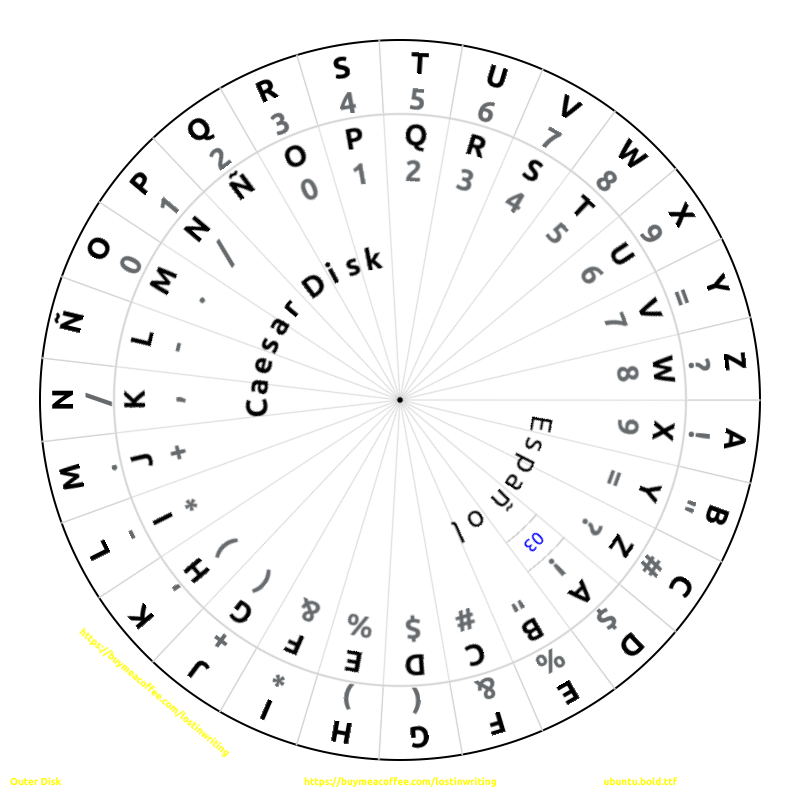
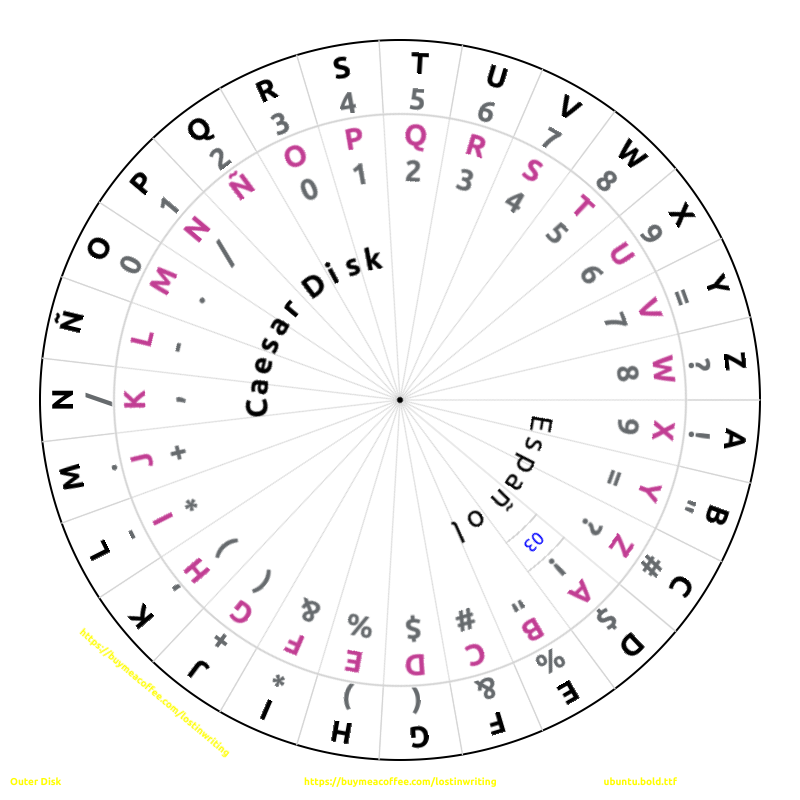
Close #4 Dual disk in single image composite

diff --git a/generator.go b/generator.go
@@ -13,8 +13,10 @@ import (
 	"fmt"
 	"image"
 	"image/color"
+	"image/png"
 	"log"
 	"math"
+	"os"
 	"path/filepath"
 	"strings"
 	"unicode/utf8"
@@ -53,6 +55,11 @@ const (
 	SubTitle string = "C a e s a r  D i s k"
 )
 
+const (
+	percentSingleDiskIndex float64 = 0.70 // % of radius at which we draw Shift value
+	percentDualDiskIndex   float64 = 0.55 // % of radius at which we draw Shift value
+)
+
 // Default Free embedded font(s)
 //
 //go:embed ubuntu.regular.ttf
@@ -73,6 +80,7 @@ var DefaultCaesarWheelOptions = CaesarWheelOptions{
 	LettersFontPath: "ubuntu.bold.ttf",
 	LettersSize:     30.0,
 	LetterColor:     NewRGB[uint8](0, 0, 0),
+	LetterColorAlt:  NewRGB[uint8](0, 0, 0),
 	DigitsFontPath:  "ubuntu.regular.ttf",
 	DigitsSize:      18.0,
 	DigitsColor:     NewRGB[uint8](0x00, 0x00, 0xff), //NewRGB[uint8](0xff, 0xa5, 0x00),
@@ -96,6 +104,7 @@ type CaesarWheelOptions struct {
 	LettersFontPath string
 	LettersSize     float64
 	LetterColor     RGB[uint8]
+	LetterColorAlt  RGB[uint8]
 	DigitsFontPath  string
 	DigitsSize      float64
 	DigitsColor     RGB[uint8]
@@ -152,6 +161,71 @@ func loadFont(fontPath string, size float64) font.Face {
 
 }
 
+// loads a (base) image
+func loadImage(path string) (image.Image, error) {
+	file, err := os.Open(path)
+	if err != nil {
+		return nil, err
+	}
+	defer file.Close()
+	img, err := png.Decode(file)
+
+	return img, err
+}
+
+// Superimpose the two disks and rotate the inner disk image by the Caesar
+// shift value (0..N-1) where N is the length of the chosen alphabet,
+// i.e. the number of segments in the Caesar wheel.
+func SuperimposeDisksByShift(shift, n int, outerFilename, innerFilename, outputFilename string, opts CaesarWheelOptions) error {
+	width := opts.Size.Dx()
+	height := opts.Size.Dy()
+	angle := (float64(shift) / float64(n)) * 2 * math.Pi
+
+	dc := gg.NewContext(width, height)
+	// the bigger (outer) disk is the background
+	baseImg, err := loadImage(outerFilename)
+	if err != nil {
+		return err
+	}
+	dc.DrawImage(baseImg, 0, 0)
+
+	// the inner (smaller) disk is then superimposed
+	overlayImg, err := loadImage(innerFilename)
+	if err != nil {
+		return err
+	}
+
+	if angle == 0 {
+		dc.DrawImage(overlayImg, 0, 0) // overlay has the same size
+	} else {
+		dc.Push() // save the current state of our image context
+		// set the center of the overlay
+		var overlayX, overlayY float64
+		overlayX, overlayY = float64(width/2.0), float64(height/2.0)
+
+		// move the context to the rotation point
+		dc.Translate(overlayX, overlayY)
+		// rotate it the specified amount of radians
+		//angle := gg.Radians(degreeRotation)
+		dc.Rotate(angle)
+		// draw the rotated overlay image centered at 0,0
+		dc.DrawImage(overlayImg, -overlayImg.Bounds().Dx()/2, -overlayImg.Bounds().Dy()/2)
+		// restore the context
+		dc.Pop()
+	}
+
+	// -- Draw Shift Value on the superimposed disk
+	font := loadFont(opts.DigitsFontPath, opts.DigitsSize)
+	// Calculate the middle angle for text  placement
+	startAngle := (float64(shift) / float64(n)) * 2 * math.Pi
+	midAngle := startAngle + (math.Pi / float64(n))
+
+	drawShiftValue(shift, n, opts.Radius*percentDualDiskIndex, midAngle, font, opts, dc)
+
+	err = dc.SavePNG(outputFilename)
+	return err
+}
+
 // Draw a text in a semicircle (arc)
 func drawArcText(arcText string, fgColor color.Color, fontSize, width, height, radius float64, onLeft bool, fontPath string, dc *gg.Context) {
 	// Calculate the arc text position
@@ -182,12 +256,36 @@ func drawArcText(arcText string, fgColor color.Color, fontSize, width, height, r
 	}
 }
 
+func drawShiftValue(shift, N int, radius, midAngle float64, font font.Face, opts CaesarWheelOptions, dc *gg.Context) {
+	x := float64(opts.Size.Dx() / 2)
+	y := float64(opts.Size.Dy() / 2)
+
+	angle := math.Pi*2*float64(shift)/float64(N) + math.Pi/float64(N)
+	if opts.Orthogonal {
+		angle = angle + math.Pi/2 // read at XII
+	}
+
+	// Calculate index position (mid-radius, mid-angle)
+	digitsX := x + radius*math.Cos(midAngle)
+	digitsY := y + radius*math.Sin(midAngle)
+
+	labelShiftValue := fmt.Sprintf("%02d", shift)
+	dc.SetFontFace(font)
+	dc.SetRGB255(int(opts.DigitsColor.Red), int(opts.DigitsColor.Green), int(opts.DigitsColor.Blue))
+
+	dc.Push()
+	dc.Translate(digitsX, digitsY)
+	dc.Rotate(angle)
+	dc.DrawStringAnchored(labelShiftValue, 0, 0, 0.5, 0.5)
+	dc.Pop()
+}
+
 func GenerateDualCaesarWheel(letters, symbols string, filename string, inner bool, opts CaesarWheelOptions) error {
-	sizeLet := utf8.RuneCountInString(letters)
-	sizeSym := utf8.RuneCountInString(symbols)
-	if sizeLet != sizeSym {
-		println("LET", sizeLet, letters)
-		println("SYM", sizeSym, symbols)
+	countLet := utf8.RuneCountInString(letters)
+	countSym := utf8.RuneCountInString(symbols)
+	if countLet != countSym {
+		println("LET", countLet, letters)
+		println("SYM", countSym, symbols)
 		return ErrUnmatchedDual
 	}
 
@@ -197,7 +295,7 @@ func GenerateDualCaesarWheel(letters, symbols string, filename string, inner boo
 		Edge:        opts.Radius,
 		First:       opts.Radius * 0.95, // at 90% (0.90) place the character
 		Second:      opts.Radius * 0.85,
-		Shift:       opts.Radius * 0.55, // place digits 70% of the way to the edge
+		Shift:       opts.Radius * percentDualDiskIndex, // place digits 70% of the way to the edge
 		ArcLabelPos: opts.Radius * 0.55,
 	}
 	// for inner disk, contains 2 cipher alphabets but only cut-out for digits
@@ -242,12 +340,12 @@ func GenerateDualCaesarWheel(letters, symbols string, filename string, inner boo
 	// III. Draw the N dividing lines and characters
 	letterLabel := []rune(letters) // each letter MAY be a multi-byte rune
 	symbolLabel := []rune(symbols)
-	for i := range sizeLet { // the length in Unicode chars rather than bytes
+	for i := range countLet { // the length in Unicode chars rather than bytes
 		// Calculate the start and end angles for the segment
-		startAngle := (float64(i) / float64(sizeLet)) * 2 * math.Pi
+		startAngle := (float64(i) / float64(countLet)) * 2 * math.Pi
 		//endAngle := (float64(i+1) / float64(sizeLet)) * 2 * math.Pi
 		// Calculate the middle angle for text  placement
-		midAngle := startAngle + (math.Pi / float64(sizeLet)) // use pi/N for half a segment angle
+		midAngle := startAngle + (math.Pi / float64(countLet)) // use pi/N for half a segment angle
 		// Calculate the end point of the line on the circle's edge
 		endX := x + ringDualOut.Edge*math.Cos(startAngle)
 		endY := y + ringDualOut.Edge*math.Sin(startAngle)
@@ -261,7 +359,7 @@ func GenerateDualCaesarWheel(letters, symbols string, filename string, inner boo
 
 		// -- Calculate the letter's baseline angle so that it is perpendicular to
 		// the radius. First calculation is letter's side edge parallel to the circle's tangent
-		angle := math.Pi*2*float64(i)/float64(sizeLet) + math.Pi/float64(sizeLet)
+		angle := math.Pi*2*float64(i)/float64(countLet) + math.Pi/float64(countLet)
 		if opts.Orthogonal {
 			angle = angle + math.Pi/2 // read at XII
 		} // else read at III
@@ -285,12 +383,12 @@ func GenerateDualCaesarWheel(letters, symbols string, filename string, inner boo
 			}
 
 			// The Inner disk contains the CIPHERed character(s)
-			drawInnerChar(ringDualIn.First, labelLetter, opts.LetterColor.ToHexColor())
+			drawInnerChar(ringDualIn.First, labelLetter, opts.LetterColorAlt.ToHexColor())
 			drawInnerChar(ringDualIn.Second, labelSymbol, MidGray.ToHexColor())
 
 			// Draw the cut-out that would allow to see-through to
 			// the key/index printed in the disc underneath (outer)
-			endAngle := (float64(1) / float64(sizeLet)) * 2 * math.Pi
+			endAngle := (float64(1) / float64(countLet)) * 2 * math.Pi
 			dc.SetLineWidth(0.75)
 			dc.SetRGB(0.827, 0.827, 0.827)
 			dc.DrawArc(x, y, ringDualOut.Shift+opts.DigitsSize-2, 0, endAngle)
@@ -377,14 +475,14 @@ func GenerateDualCaesarWheel(letters, symbols string, filename string, inner boo
 		return fmt.Errorf("failed to save image: %w", err)
 	}
 
-	fmt.Printf("successfully generated '%s' with %d segments\n", filename, sizeLet)
+	fmt.Printf("successfully generated '%s' with %d segments\n", filename, countLet)
 	return nil
 }
 
 // generate an image with a Caesar encoder wheel that could be printed
 func GenerateCaesarWheel(letters string, filename string, inner bool, opts CaesarWheelOptions) error {
 	// at 75% (0.75) place the 2-digit offset
-	var indexRadius = opts.Radius * 0.70 // place digits 70% of the way to the edge
+	var indexRadius = opts.Radius * percentSingleDiskIndex // place digits 70% of the way to the edge
 	// at 90% (0.90) place the character, thus nearest the edge of the circle
 	var textRadius = opts.Radius * 0.95
 
@@ -486,7 +584,7 @@ func GenerateCaesarWheel(letters string, filename string, inner bool, opts Caesa
 
 			textAltX := x + textAltRadius*math.Cos(midAngle)
 			textAltY := y + textAltRadius*math.Sin(midAngle)
-			dc.SetColor(opts.LetterColor.ToColor())
+			dc.SetColor(opts.LetterColorAlt.ToColor())
 			dc.Push()
 			dc.Translate(textAltX, textAltY)
 			dc.Rotate(angle)

diff --git a/cmd/disk/main.go b/cmd/disk/main.go
@@ -13,6 +13,7 @@ import (
 	"fmt"
 	"os"
 	"strings"
+	"unicode/utf8"
 
 	"github.com/lordofscripts/caesardisk"
 )
@@ -79,6 +80,7 @@ func main() {
 	// I. Command-line flag definition and parsing
 	var flgHelp, flgES, flgRU, flgPT, flgDE, flgGR, flgIT, flgCZ, flgPunct, flgDual bool
 	var flgTextFontPath, flgDigitFontPath, flgAlphabet, flgTitle string
+	var flgAssemble int
 	flag.Usage = Usage
 	flag.BoolVar(&flgHelp, "help", false, "This help")
 	// 1.1 flags for supported preset languages
@@ -98,6 +100,7 @@ func main() {
 	flag.StringVar(&flgTitle, "title", "", "Title (usually disk language or ID)")
 	flag.StringVar(&flgTextFontPath, "text-font", "", "Text font path")
 	flag.StringVar(&flgDigitFontPath, "digit-font", "", "Digit font path (else use same text font)")
+	flag.IntVar(&flgAssemble, "assemble", -1, "when set also output a final disk with key N")
 	flag.Parse()
 
 	// II. Command-line flag validation and processing
@@ -107,6 +110,8 @@ func main() {
 		flag.Usage()
 	} else {
 		var Options caesardisk.CaesarWheelOptions = caesardisk.DefaultCaesarWheelOptions
+		Options.LetterColorAlt = caesardisk.NewRGBFromString("#c13e93") // for inner
+
 		if len(flgDigitFontPath) != 0 {
 			Options.DigitsFontPath = flgDigitFontPath
 		}
@@ -239,6 +244,29 @@ func main() {
 		// the filename is in base form
 		generateWheel(alphabetLet, "caesar_disk", false, flgDual, Options)
 		generateWheel(alphabetLet, "caesar_disk", true, flgDual, Options)
+
+		// -assemble
+		if flgAssemble > -1 {
+			// how many unicode characters in the chosen alphabet
+			maxKey := utf8.RuneCountInString(alphabetLet)
+			// adjust the shift if necessary, 0..N-1
+			shift := flgAssemble % maxKey
+			outerDiskFile := generateFilename("caesar_disk", false, langSuffix)
+			innerDiskFile := generateFilename("caesar_disk", true, langSuffix)
+			finalFile := "caesar_disk_" + langSuffix + "_final.png"
+			err := caesardisk.SuperimposeDisksByShift(
+				shift, maxKey,
+				outerDiskFile,
+				innerDiskFile,
+				finalFile,
+				Options)
+			if err != nil {
+				println("WARNING", err)
+			} else {
+				fmt.Printf("successfully generated '%s' with Caesar shift %d: ", finalFile, shift)
+			}
+		}
+
 		fmt.Print(Options)
 		fmt.Printf("%15s: %s\n", "Alphabet", alphabetLet)
 		if flgDual {
